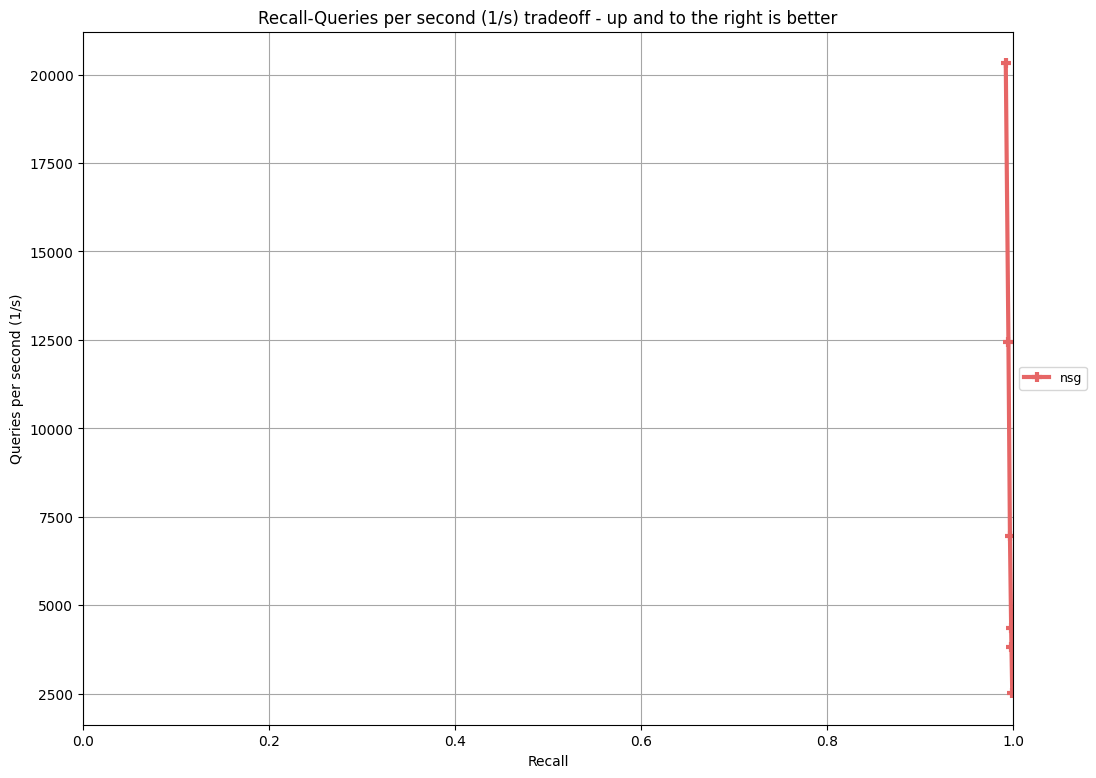
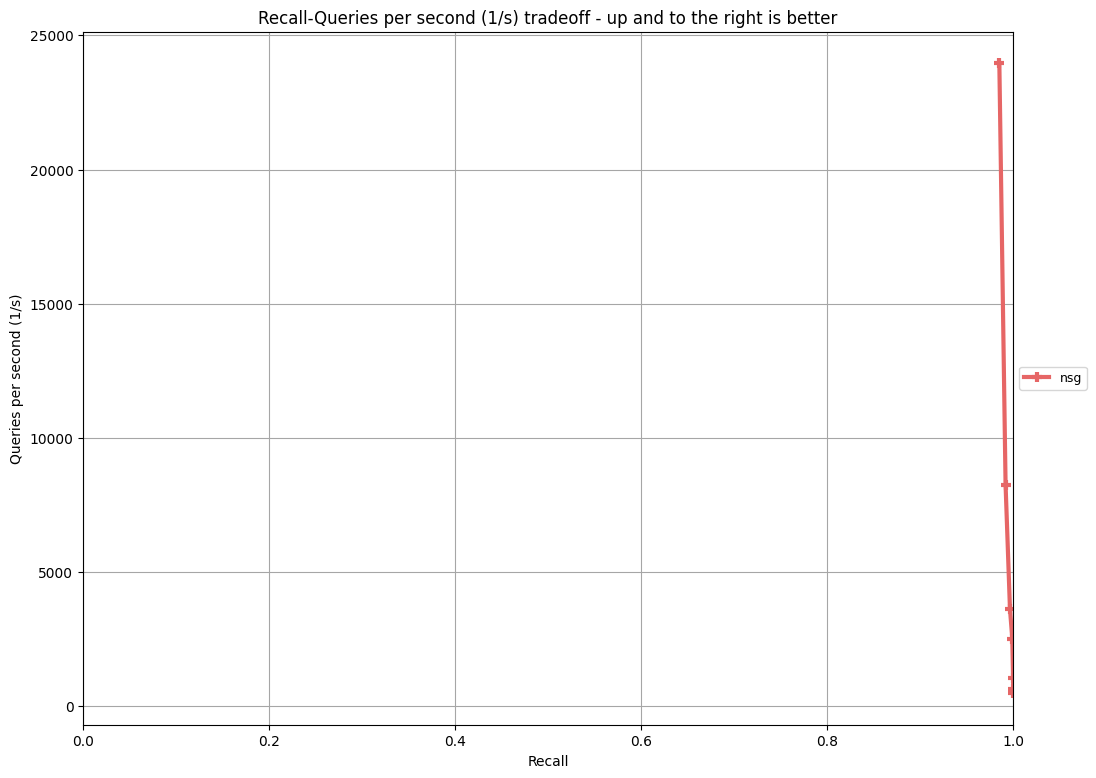
adjust nsg parameters

diff --git a/ann_benchmarks/algorithms/nsg/module.py b/ann_benchmarks/algorithms/nsg/module.py
@@ -57,9 +57,9 @@ class Nsg(BaseANN):
 
         print('fit done')
 
-    def set_query_arguments(self,search_k, search_l):
-        self.SEARCH_L = int(search_l * search_k)
-        self._search_k = search_k
+    def set_query_arguments(self,search_L ):
+        self.SEARCH_L = search_L
+   
     def query(self, v: numpy.array, n: int):
         X_flat = v.flatten()
         X_ctypes = X_flat.ctypes.data_as(ctypes.POINTER(ctypes.c_float))

diff --git a/ann_benchmarks/runner.py b/ann_benchmarks/runner.py
@@ -206,7 +206,6 @@ def run(definition: Definition, dataset_name: str, count: int, run_count: int, b
         batch (bool): If true, runs in batch mode.
     """
     algo = instantiate_algorithm(definition)
-    print(definition.query_argument_groups)
     assert not definition.query_argument_groups or hasattr(
         algo, "set_query_arguments"
     ), f"""\
